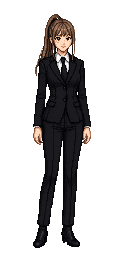
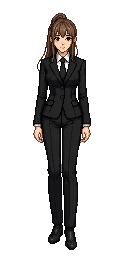
페르소나 검은 정장 v2 (화풍 에일린 256 잘라 넣음), v1은 _old
Claude-Session: https://claude.ai/code/session_01MHVZo1cmjhxk1y77dJPKfy

Changed region(s): [[0.25, 0.3438, 0.7188, 1.0], [0.25, 0.0312, 0.6875, 0.4062], [0.3438, 0.3125, 0.4375, 0.4375]]

diff --git a/game-src/persona_faction/gen_front.py b/game-src/persona_faction/gen_front.py
@@ -6,7 +6,7 @@ HERE = Path(__file__).resolve().parent; ROOT = HERE.parents[1]
 sys.path.insert(0, str(ROOT / "tools")); import pixellab_gate
 API = "https://api.pixellab.ai/v2"
 P = json.loads((HERE / "prompts_v2.json").read_text())
-STYLE = base64.b64encode((HERE / "style_eileen_south.png").read_bytes()).decode()
+STYLE = base64.b64encode((HERE / "style_eileen_256_crop128.png").read_bytes()).decode()
 def call(m, path, body=None):
     r = urllib.request.Request(API + path, data=json.dumps(body).encode() if body else None, method=m, headers={"Content-Type": "application/json"})
     with urllib.request.urlopen(r, timeout=120) as f: return json.loads(f.read())
